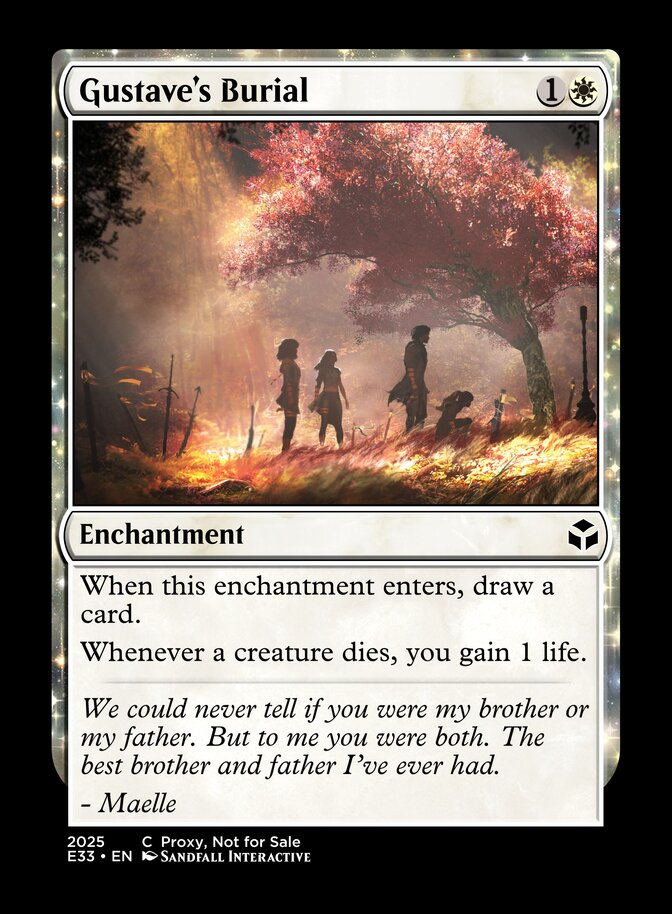
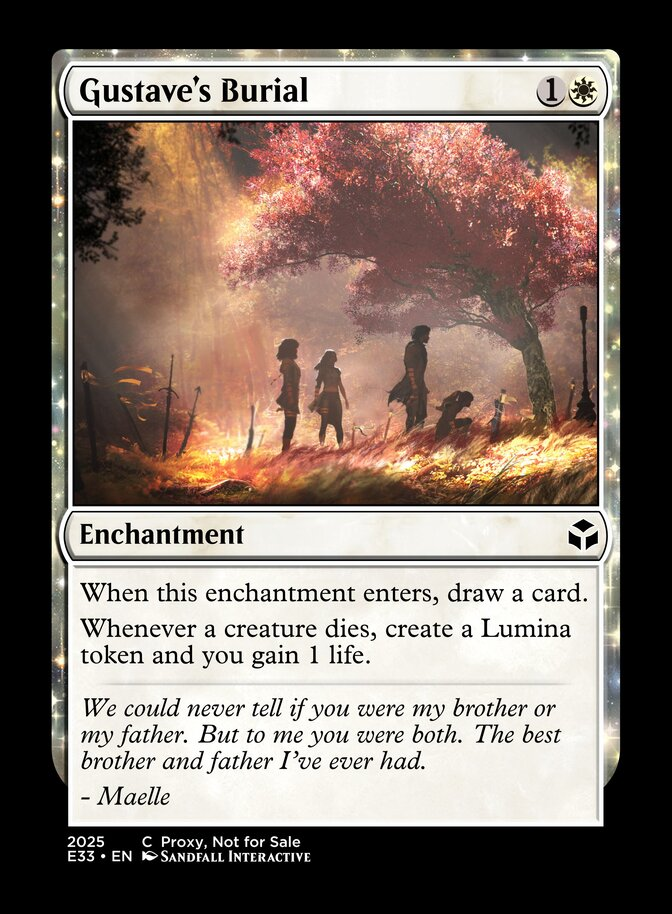
#71: Gustave's Burial: Add Lumina token bonus on creature death

Changed region(s): [[0.125, 0.6127, 0.875, 0.8884]]

diff --git a/design/WHITE.md b/design/WHITE.md
@@ -1,6 +1,6 @@
 # Cards
 
-> Last generated: 18/1/2026 7:23:31 am
+> Last generated: 19/1/2026 2:05:04 am
 
 ## A Life to Love (Farewell)
 
@@ -341,7 +341,7 @@ Your time left in this life is limited, why not make it count for something?
 1W
 Enchantment
 When this enchantment enters, draw a card.
-Whenever a creature dies, you gain 1 life.
+Whenever a creature dies, create a Lumina token and you gain 1 life.
 ---
 We could never tell if you were my brother or my father. But to me you were both. The best brother and father I’ve ever had.
 - Maelle
@@ -353,6 +353,7 @@ We could never tell if you were my brother or my father. But to me you were both
 
  - In the game, after defeating the Dualliste, the party find a special tree at Verso's recommendation where Maelle buries Gustave's remains.
  - Card depicts this moment.
+ - 19/01/2026: Added Lumina token bonus on creature death.
 
 ## Healing Light
 
